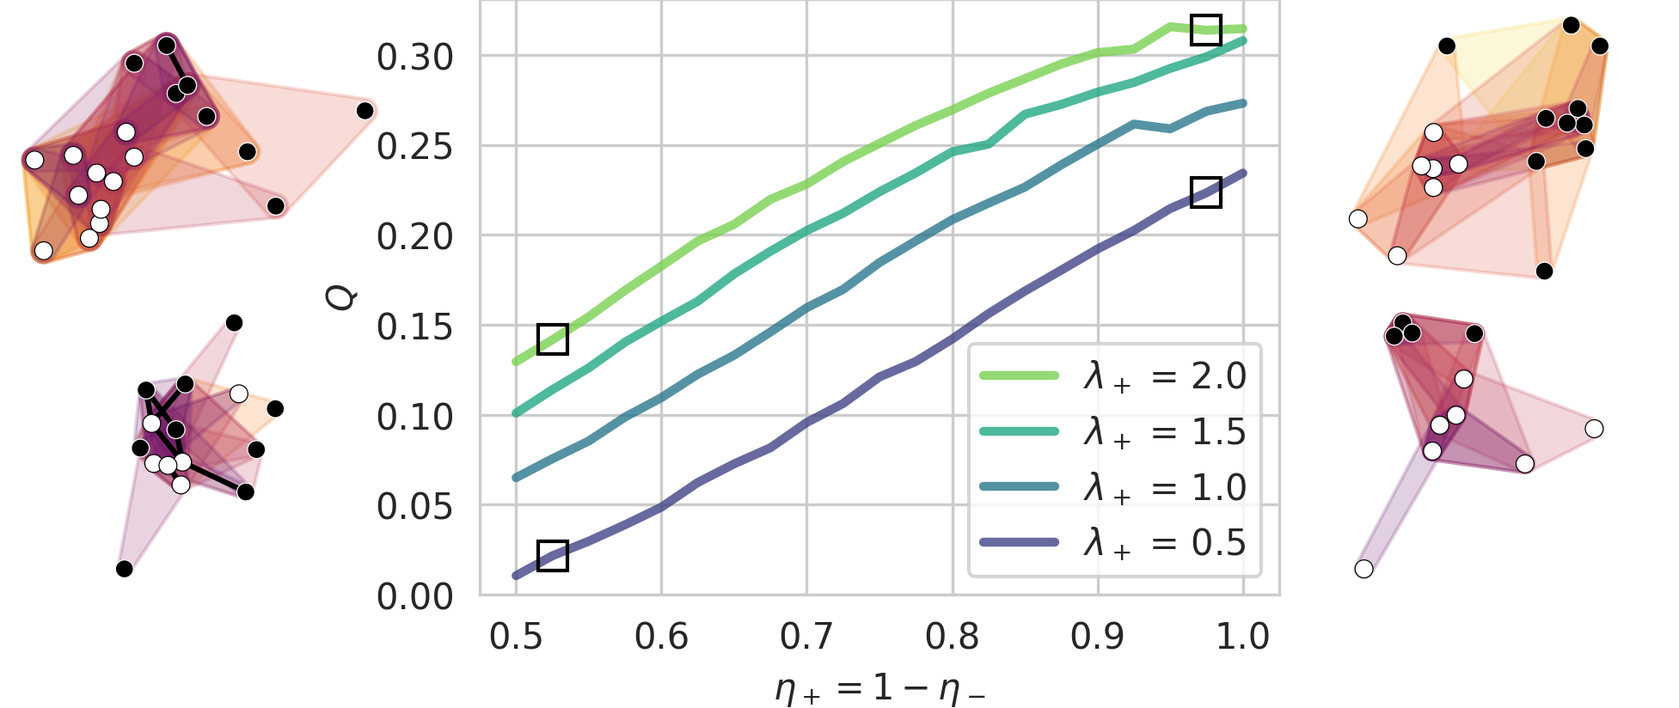
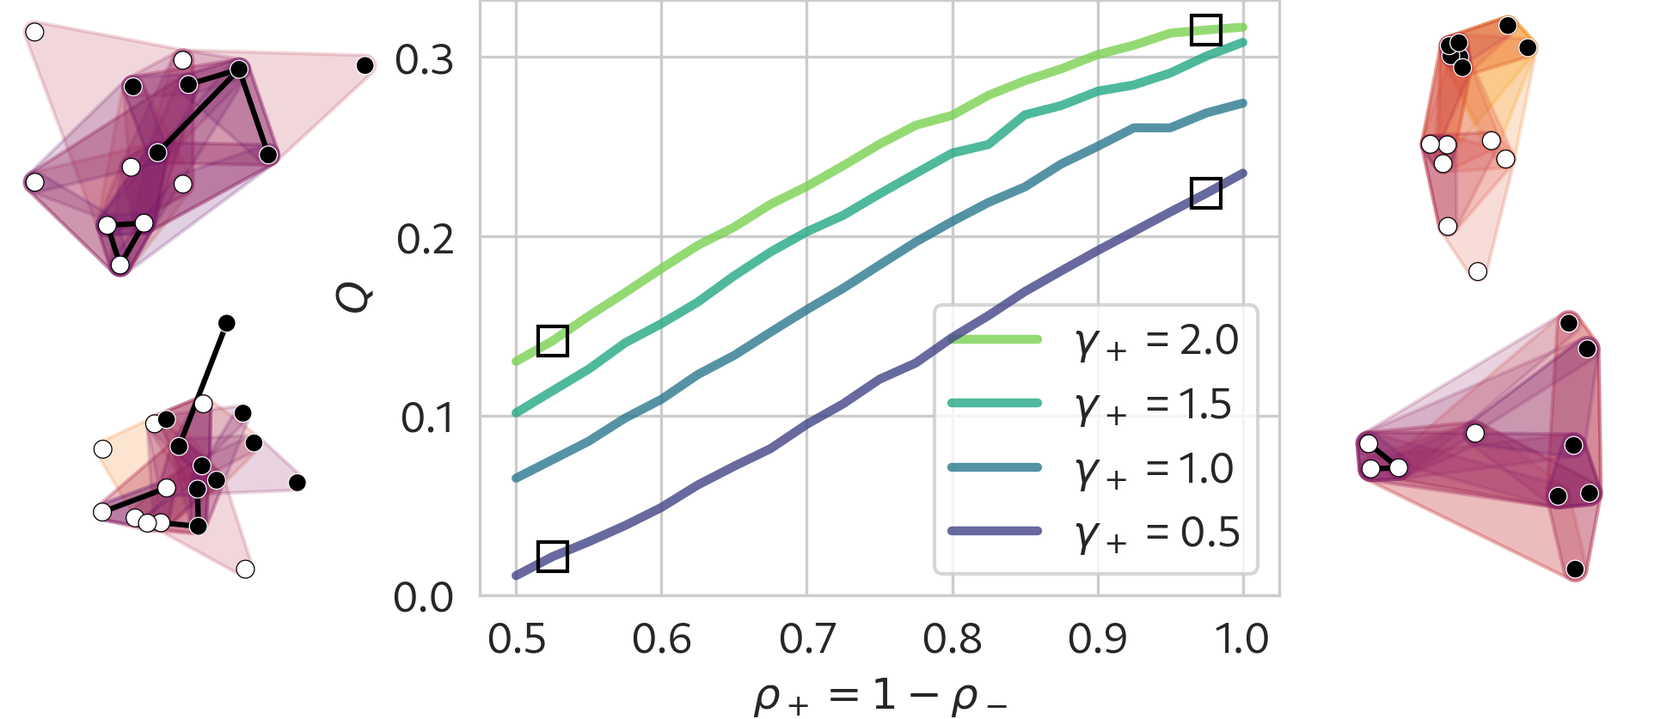
phil begins his pass

diff --git a/paper/main.tex b/paper/main.tex
@@ -1,7 +1,8 @@
 % /Users/philchodrow/.../main.tex
 % RevTeX 4.2 minimal starter document
 
-\documentclass[aps,pre,reprint,superscriptaddress,nofootinbib]{revtex4-2}
+\documentclass[aps,pre,reprint,superscriptaddress,nofootinbib,12pt,onecolumn]{revtex4-2}
+\usepackage[margin=1.25in]{geometry}
 % \documentclass[aps,pre,reprint,superscriptaddress,nofootinbib,draft]{revtex4-2}
 
 
@@ -40,13 +41,14 @@
 
 \date{\today}
 \begin{abstract}
-    There are many extant models of hypergraphs with interactions governed by some form of homophily or assortativity, but almost all of these assume independence between edges conditional on node parameters. 
-    Relaxing this strong assumption, we study a mechanistic model of growing hypergraphs in which edge formation is influenced by the realization of previous edges and is tuned by homophily between binary node labels. 
+    There are many extant models of hypergraphs with interactions governed by some form of homophily or assortativity, but most assume independence between edges conditional on node parameters. 
+    Relaxing this assumption, we study a mechanistic model of growing hypergraphs in which edge formation is influenced by the realization of previous edges and is tuned by homophily between binary node labels. 
     Edges form in this model as noisy copies of previous edges, where the transmission of nodes from one edge to the next depends on the labels.
     We derive a power law for the degree distribution in this model and describe the long-term dynamics of the joint distribution of labels contained in edges. 
     This model defines a likelihood over a labeled hypergraph, allowing us to use standard maximum-likelihood techniques to structure algorithms. 
-    We estimate the model parameters on synthetic and real data via (stochastic) expectation maximization, allowing us to statistically quantify the signature of homophily in empirical polyadic systems. 
-    We also demonstrate an approach to community detection via simulated annealing which, though computationally expensive, achieves competitive results on synthetic data generated from our model and certain empirical data sets known to be challenging to standard community detection techniques derived from models that assume edge independence.
+    We estimate the model parameters on synthetic and real data via (stochastic) expectation maximization. 
+    These estimates give statistically-principled descriptions of the operation of homophily in empirical polyadic systems. 
+    We also demonstrate an approach to community detection via simulated annealing which, though computationally expensive, achieves competitive results on both synthetic data and certain empirical data sets known to be challenging to community detection techniques based on the edge-independence assumption. 
     Our findings highlight the benefits of moving beyond edge-independence assumptions in modeling and data analysis, and point to several directions for future work. 
 \end{abstract}
 
@@ -56,96 +58,108 @@
 
 \def\thefootnote{*}\footnotetext{These authors contributed equally to this work}\def\thefootnote{\arabic{footnote}}
 
+
+\phil{clarify assortativity the structure vs. homophily the process throughout and say that's how we're using the terms.}
+
 \section{Introduction}
 
-    Hypergraphs provide a natural, flexible data representation for complex systems with polyadic (multi-way) interactions, such as social interactions (both in-person \cite{mastrandrea2015contact} and online \cite{bensonSimplicialClosureHigherorder2018}), academic co-authorship \cite{wu2022hypergraph}, and ecological systems \cite{levine2017beyond}. 
-    Much recent work has emphasized the importance of faithfully representing polyadic structure rather than reducing it to dyadic interactions \cite{battistonNetworksPairwiseInteractions2020,bick2023higher}, though recent work has shown that some purportedly higher-order dynamics can be faithfully represented on dyadic networks under appropriate models \cite{peixoto2026graphs}.
+    Hypergraphs provide a natural, flexible data representation for complex systems with polyadic (multi-way) interactions. 
+    Systems naturally modeled as hypergraphs include social interaction networks (both in-person \cite{mastrandrea2015contact} and online \cite{bensonSimplicialClosureHigherorder2018}), academic co-authorship neteworks, \cite{wu2022hypergraph}, and networks of ecological relations \cite{levine2017beyond}. 
+    Much recent work has emphasized the importance of faithfully representing polyadic structure rather than reducing it to dyadic interactions \cite{battistonNetworksPairwiseInteractions2020,bick2023higher} via graph projections.
 
 
-    % MORE HIGHER ORDER HERE
-    \frannie{Per existing comment, more higher order here}
-    Much attention in the theory of (hyper)graph mining has focused on developing novel techniques for community detection (also often called \emph{clustering} or \emph{partitioning}). 
-    Many, but not all, of these methods can be viewed as exact or approximate inference algorithms for stochastic generative models. 
-    A stochastic generative model is a parametrized probability distribution defined over hypergraphs. 
-    In one standard framework, a set $\nodes$ of $n$ nodes is initialized along with a vector $\vz \in [k]^n$ that assigns to each node one of $k$ community labels. 
-    One then forms the edge set $\edges$ iteratively by visiting each subset $R \subseteq \nodes$ and independently assigning $a_R$ (possibly repeated) edges to $R$ according to a distribution $p(a_R | \vz_R, \theta)$, where $\vz_R$ is the vector of labels of the nodes in $R$ and $\theta$ is a set of model parameters.
-    This results in a probability distribution over hypergraphs which can be factorized into a product of edge probabilities conditioned on the node labels and model parameters: 
+    Our focus on this work is on the mechanism of homophily---the tendency of nodes to interact with other nodes with similar attributes---in hypergraph data.
+    One way to model homophily in hypergraphs is via stochastic generative models, which define probability distributions over hypergraphs. 
+    In one standard framework, a set $\nodes$ of $n$ nodes is initialized along with a vector $\vz \in \{1,\ldots,k\}^n$ that assigns to each node one of $k$ community labels. 
+    One then forms the edge set $\edges$ iteratively by visiting each subset $R \subseteq \nodes$ and independently assigning $a_R \in \mathbb{N}$ (possibly repeated) edges to $R$ according to a distribution $p(a_R | \vz_R, \theta)$, where $\vz_R$ is the vector of labels of the nodes in $R$ and $\theta$ is a set of model parameters.
+    Independence of sampling results in a probability distribution over hypergraphs which can be factorized into a product of edge probabilities conditioned on the node labels and model parameters: 
     \begin{align}
         p(\hypergraph | \vz, \theta) = \prod_{R \subseteq \nodes} p(a_R | \vz_R, \theta) \;. \label{eq:edge-independence}
     \end{align}
-    Many generative models for community detection fall into this category, including hypergraph stochastic block models \cite{chodrowGenerativeHypergraphClustering2021,ruggeriCommunityDetectionLarge2023,kim2018stochastic} and some generalizations \cite{badalyanStructureInferenceHypergraphs2024,hood2026broad}.
-    The conditional independence property \cref{eq:edge-independence} is extremely useful for computation, as factorizability of the likelihood enables many efficiencies in various inference algorithms, including approximate maximum-likelihood estimation via direct optimization \cite{chodrowGenerativeHypergraphClustering2021} or expectation-maximization \cite{ruggeriCommunityDetectionLarge2023}; spectral methods \cite{chodrowNonbacktrackingSpectralClustering2023,fernandez2026achieving,li2026higher}; and message passing \cite{ruggeri2024message}. 
+    Many generative models fall into this broad scheme, including hypergraph stochastic block models \cite{chodrowGenerativeHypergraphClustering2021,ruggeriCommunityDetectionLarge2023,kim2018stochastic} and some of their generalizations \cite{badalyanStructureInferenceHypergraphs2024,hood2026broad}.
+
+    \phil{Need to standardize notation for likelihood: should it just be lowercase $p$ or something different and fancier?}
+
+
+    Models of this type often underly algorithms for hypergraph community detection (also called \emph{clustering} or \emph{partitioning}), in which one seeks to estimate the latent node labels $\vz$ given an observed hypergraph $\hypergraph$.
+    The conditional independence property \eqref{eq:edge-independence} is extremely useful for computation in this context.  
+    Factorizability of the likelihood enables many efficiencies in various inference algorithms, including approximate maximum-likelihood estimation via direct optimization \cite{chodrowGenerativeHypergraphClustering2021} or expectation-maximization \cite{ruggeriCommunityDetectionLarge2023}; spectral methods \cite{chodrowNonbacktrackingSpectralClustering2023,fernandez2026achieving,li2026higher}; and message passing \cite{ruggeri2024message}. 
     Another recent optimization-based approach \cite{kritschgauCommunityDetectionHypergraphs2024} is equivalent to a microcanonical version of the stochastic block model, which satisfies an asymptotic form of edge-independence in the large sparse limit.
-    Even a recent latent-space model \cite{yuModelingHypergraphsDiversity2025} treats edges as independent samples, albeit from a very differently stochastic generating process. 
+    Latent-space models (e.g. \cite{yuModelingHypergraphsDiversity2025}) also satisfy a form of edge independence, albeit in the context of a very different stochastic generating process.
     
     Edge independence, however, is a strong and often unrealistic assumption for modeling hypergraph data. 
-    A parallel line of work has found that polyadic data sets often contain significant edge correlations \cite{bensonSimplicialClosureHigherorder2018,landrySimplicialityHigherorderNetworks2024,leeHowHyperedgesOverlap2021}, typically in the form of \emph{similarity between interactions}.
+    A parallel line of work has found that polyadic data sets often contain significant edge correlations \cite{bensonSimplicialClosureHigherorder2018,landrySimplicialityHigherorderNetworks2024,leeHowHyperedgesOverlap2021}.
+    These correlations are often observed as \emph{similarity between interactions}.
     When an interaction occurs on a set $R \subseteq \nodes$, this increases the likelihood of observing a new interaction on a set $S \subseteq \nodes$ correlated with $R$ in the sense that $R\cap S$ is larger than would be expected by chance. 
     These overlaps can be shown to affect the kinds of dynamics which can unfold on the hypergraph \cite{maliziaHyperedgeOverlapDrives2025,lamata2025hyperedge}. 
-    Several generative models for the growth of hypergraphs with edge-dependence have been proposed \cite{bensonSequencesSets2018,avinRandomPreferentialAttachment2019,heEdgeCorrelationsLink2025,leeTHyMeTemporalHypergraph2021,leeTemporalHypergraphMotifs2023}. 
-    Several of these models express dependence through a copying or recombination mechanism, in which nodes collected from one or more existing hyperedges are gathered and noisily copied into a new edge as a block.  
+    Several generative models for the growth of hypergraphs with edge-dependence have been proposed \cite{bensonSequencesSets2018,avinRandomPreferentialAttachment2019,heEdgeCorrelationsLink2025,leeTHyMeTemporalHypergraph2021,leeTemporalHypergraphMotifs2023}, including several with explicit nodel labels \cite{giroirePreferentialAttachmentHypergraph2022,giroirePreferentialAttachmentHypergraph2022a,kaminski2023hypergraph}; see \cite{laber2026guide} for a recent review.  
+    We note that the above are all models \emph{of} hypergraph formation rather than models of dynamics \emph{on} hypergraphs; recent work argues that the latter may be better expressed via dyadic graph models \cite{peixoto2026graphs} but does not treat the former.
 
-    % Phil prewriting got down to here.
-
-    In this paper, we introduce a model of binary node-labeled hypergraphs in which edges form via a noisy copying interaction, which depends on the labels. 
+    Of the generative models of hypergraph growth with both edge-dependence and node labels, we are unaware of any which allow for statistically-motivated inference of either the dynamical parameters or the latent node labels.
+    In this paper, we aim to connect stochastic generative modeling of edge-dependent, node-labeled hypergraphs to inference algorithms. 
+    To this end, we introduce a model with binary labels in which edges form via a noisy edge copy process tuned by the node labels within the copied edge.
     We refer to this model as \Model{} (\model{}).
-    Our work is organized as follows. 
+    The paper proceeds as follows. 
     In \Cref{sec:model-description}, we describe \model{} and derive limiting descriptions of the joint distribution of node labels within a given edge, as well as the degree distribution of the hypergraph.
+    We turn to optimization-based inference methods in \Cref{sec:inference}, considering both parameter inference and community detection.
     Evaluating the likelihood of our model requires marginalizing over a set of latent variables governing the noisy copy mechanism, which is computationally expensive. 
-    To estimate our model's parameters when node labels are known, we therefore describe a stochastic expectation-maximization algorithm in which each iteration has sublinear cost in the number of edges for sparse hypergraphs.
-    We also describe a community detection algorithm for estimating node labels via simulated annealing on the \model{} likelihood. 
+    To estimate our model's parameters when node labels are known, we therefore describe a stochastic expectation-maximization algorithm with favorable scaling.
+    Community detection in this model is much more computationally challenging. 
+    As an early step in this direction,we describe a community detection algorithm for estimating node labels via simulated annealing on the \model{} likelihood. 
     In \Cref{sec:results}, we demonstrate our algorithms on synthetic and empirical data. 
     We show that, on synthetic data sampled from \model{}, our stochastic expectation maximization algorithm is both consistent and scalable, and that our simulated annealing algorithm for community detection, though computationally expensive, outperforms other standard methods in certain parameter regimes. 
     On empirical data, our parameter estimates yield insight into the mechanisms governing edge formation.
-    Our community detection achieves competitive recovery of observed metadata labels on some data sets known to be challenging to other community detection methods.
+    \model{} community detection achieves competitive recovery of observed metadata labels on some data sets known to be challenging to other recent community detection methods.
     We conclude with some discussion of future directions for models of node-labeled hypergraphs with edge-dependence. 
+    Our findings highlight the benefits of using explicit stochastic generative models to guide data analysis algorithms for studying homophily in polyadic systems.
 
-\section{\model{} Model Description} \label{sec:model-description}
+\section{The \model{} Model} \label{sec:model-description}
 
 
-    \Model{} (\model{}) is a generative model for growing hypergraphs with binary node labels. 
+    We propose \Model{} (\model{}), a generative model of growing hypergraphs with binary node labels. 
     \model{} is an extension of the Hyperedge Copy Model (HCM) of He et al. \cite{heEdgeCorrelationsLink2025}. 
-    In their HCM, edges form through a combination of three distinct steps: a copy step, in which a previous edge is sampled and imperfectly copied; an extant node addition step, in which new nodes are added to the new edge from the existing node set; and a new node addition step, in which new nodes are added to the new edge from outside the existing node set.
+    In the HCM, a new edge $\newedge$ is formed through a combination of three distinct steps: a copy step, in which a previous edge $\seededge$ is sampled and imperfectly copied into $\newedge$; an extant node addition step, in which new nodes in $\nodes \setminus \seededge$ are added to $\newedge$ from elsewhere in the node set; and a novel node addition step, in which nodes are added to both $e$ and $\nodes$ for the first time.
     \model{} replicates these mechanisms, but adds label-aware parameters to regulate each. 
 
-    Formally, a \model{} state at time $t$ is a hypergraph $\at{\hypergraph}{t} = \paren{\at{\nodes}{t}, \at{\edges}{t}}$, where $\nodes^t$ is the set of nodes and $\edges^t$ is the set of hyperedges, as well as a binary label vector $\vz^t \in \{0, 1\}^{|\at{\nodes}{t}|}$ which assigns to each node a label of either 0 or 1.
+    Formally, a \model{} state at time $t$ is a hypergraph $\at{\hypergraph}{t} = \paren{\at{\nodes}{t}, \at{\edges}{t}}$, where $\at{\nodes}{t}$ is the set of nodes and $\at{\edges}{t}$ is the set of hyperedges, as well as a binary label vector $\at{\vz}{t} \in \{0, 1\}^{|\at{\nodes}{t}|}$ which assigns to each node a label of either 0 or 1; $z_u$ denotes the label of node $u$.
     We let $\bar{z} = 1 - z$ denote the opposite label of $z$.
-    At timestep $t$, we add edge $\newedge$ to $\at{\edges}{t}$ to obtain $\at{\edges}{t+1}$, where $\newedge$ is formed according to the following three-step process:
+    At timestep $t+1$, we add edge $\newedge$ to $\at{\edges}{t}$ to obtain $\at{\edges}{t+1}$, where $\newedge$ is formed according to the following three-step process:
     \begin{itemize}
         \item 
             \textbf{Edge-Copying}: An edge $\seededge$ is sampled uniformly at random from $\at{\edges}{t}$, and a node $\focalnode$ is sampled uniformly at random from $\seededge$. 
             Then, each node $\node$ in $\seededge$ is included in $\newedge$ with probability $\same{\copyrate{}}$ if $z_{\node} = z_{\focalnode}$ and with probability $\opp{\copyrate{}}$ if $z_{\node} \neq z_{\focalnode}$.
         \item 
-            \textbf{Extant Node Addition}: We sample $\extantnodesinedge_{z_\focalnode}$ nodes from $\nodes^t \setminus \seededge$ with label $z_\focalnode$ and add them to $\newedge$, where $\extantnodesinedge_{z_\focalnode}$ is a Poisson random variable with mean $\same{\extantrate{}}$. 
-            We similarly sample $\extantnodesinedge_{\bar{z}_\focalnode}$ nodes from $\nodes^t \setminus \seededge$ with label $\bar{z}_\focalnode$ and add them to $\newedge$, where $\extantnodesinedge_{\bar{z}_\focalnode}$ is a Poisson random variable with mean $\opp{\extantrate{}}$.
-        \item \textbf{Novel Node Addition}: We sample $\novelnodesinedge_{z_\focalnode}$ new nodes with label $z_\focalnode$ and add them to $\newedge$, where $\novelnodesinedge_{z_\focalnode}$ is a Poisson random variable with mean $\same{\novelrate{}}$.
-            We similarly sample $\novelnodesinedge_{\bar{z}_\focalnode}$ new nodes with label $\bar{z}_\focalnode$ and add them to $\newedge$, where $\novelnodesinedge_{\bar{z}_\focalnode}$ is a Poisson random variable with mean $\opp{\novelrate{}}$.   
+            \textbf{Extant Node Addition}: We sample $\extantnodesinedge_{z_\focalnode} \sim \poisson{\same{\extantrate{}}}$ nodes from $\nodes^t \setminus \seededge$ with label $z_\focalnode$ and add them to $\newedge$. 
+            We similarly sample $\extantnodesinedge_{\bar{z}_\focalnode} \sim \poisson{\opp{\extantrate{}}}$ nodes from $\nodes^t \setminus \seededge$ with label $\bar{z}_\focalnode$ and add them to $\newedge$.
+        \item \textbf{Novel Node Addition}: We sample $\novelnodesinedge_{z_\focalnode} \sim \poisson{\same{\novelrate{}}}$ and add $\novelnodesinedge$ nodes with label $z_\focalnode$ to both $\newedge$ and $\nodes^{t+1}$. 
+        We similarly sample $\novelnodesinedge_{\bar{z}_\focalnode} \sim \poisson{\opp{\novelrate{}}}$ and add $\novelnodesinedge_{\bar{z}_\focalnode}$ nodes with label $\bar{z}_\focalnode$ to both $\newedge$ and $\nodes^{t+1}$. 
+        The associated labels are also added to $\at{\vz}{t}$ to form $\at{\vz}{t+1}$.
     \end{itemize}
-    \frannie{Do we want to add the addition of the new node's label to the label vector here when we add a novel node?}
-    Both our simulations and our statistical inference techniques (described below) were carried using the XGI package for polyadic data analysis in Python \cite{landryXGIPythonPackage2023}. 
+    We let $\paramvector = (\same{\copyrate{}}, \opp{\copyrate{}}, \same{\extantrate{}}, \opp{\extantrate{}}, \same{\novelrate{}}, \opp{\novelrate{}})$ denote the complete vector of model parameters. 
+    Formally, the probability of realizing a given hypergraph $\hypergraph$ with label vector $\vz$ under \model{} at time $t$ can be described as a time-dependent probability distribution $\at{p}{t}(\hypergraph, \vz ; \paramvector)$ over the space of hypergraphs with labeled nodes; we omit the time index when otherwise clear from context. 
+    Our implementation of \model{}, our simulations, and our other experiments were carried using the XGI package for polyadic data analysis in Python \cite{landryXGIPythonPackage2023}. 
 
 
 \begin{figure}
-    \includegraphics[width=0.48\textwidth]{../fig/community-structure-sims-combined.png}
+    \includegraphics[width=0.49\textwidth]{../fig/community-structure-sims-combined.png}
         \caption{
             Suite of model simulations illustrating the dependence of community structure, as measured by clique-projection modularity $Q$, on the \model{} parameters. 
             The parameters $\opp{\extantrate} = 0.5$ $\same{\novelrate{}} = 0.2$, and $\opp{\novelrate{}} = 0.1$ are held fixed. 
             Each line corresponds to a different value of $\same{\extantrate{}}$ indicated by the legend.
             Along the horizontal axis, we vary $\same{\copyrate{}}$ and set $\opp{\copyrate{}} = 1 - \same{\copyrate{}}$. 
             Each parameter combination is simulated $100$ times for $1,000$ timesteps. 
-            On either side of the plot, we show small hypergraphs sampled from parameter combinations indicated by the square markers. 
+            On either side of the plot, we show small hypergraphs sampled from parameter combinations indicated by the square markers for illustration.
         }\label{fig:community-structure-illustration}
     \end{figure}
-\frannie{Labels within the figure use old notation.  $Eta_+$, $Eta_-$ and $\lambda_+$ need to be changed to current notation}
 
 
 
     \Cref{fig:community-structure-illustration} illustrates the role of the model parameters in tuning the community structure of realized hypergraphs. 
-    We measure community structure by computing Newman-Girvan modularity \cite{newman2004finding} on the clique-projection of the hypergraph. 
+    We measure community structure by computing Newman-Girvan modularity \cite{newman2004finding} on the weighted clique-projection of the hypergraph. 
+    We also show several sample hypergraphs at different parameter combinations for visual illustration. 
     For fixed $\opp{\extantrate}$, $\same{\novelrate{}}$, and $\opp{\novelrate{}}$, increasing the difference $\same{\copyrate{}} - \opp{\copyrate{}}$ leads to higher modularity, as does increasing $\same{\extantrate{}}$.
     Hypergraphs sampled from our model using high values of $\same{\copyrate{}}$ and $\same{\extantrate{}}$ tend to have label-homogeneous cores of densely overlapping hyperedges, which are weakly connected to one another by edges with more heterogeneous label compositions.
     Hypergraphs with lower values of $\same{\copyrate{}}$ and $\same{\extantrate{}}$ tend to have less-structured distributions of labels over hyperedges. 
-    \frannie{Do $\opp{\copyrate{}}$ and $\opp{\extantrate{}}$ matter here?  Is the difference what's important?}
 
 
 
@@ -157,8 +171,8 @@
         \centering
         \includegraphics[width=1\textwidth]{../fig/linear_map_eigenvectors.png}
         \caption{
-            Visualization of the long-run dynamics of our model, for parameters. 
-            (a): Spectral gap $1 - \lambda_2$ of the linear map $T$ as a function of $\same{\copyrate{}}$ and $\opp{\copyrate{}}$ for fixed parameter values $\same{\extantrate{}} = 0.5$, $\opp{\extantrate{}} = \opp{\novelrate{}}3$, $\same{\novelrate{}} = 0.4$ and $\opp{\novelrate{}} = 0.2$. 
+            Illustrative long-run dynamics of our model.
+            (a): Spectral gap $1 - \lambda_2$ of the linear map $T$ as a function of $\same{\copyrate{}}$ and $\opp{\copyrate{}}$ for fixed parameter values $\same{\extantrate{}} = 0.5$, $\opp{\extantrate{}} = 0.2$, $\same{\novelrate{}} = 0.4$ and $\opp{\novelrate{}} = 0.2$. 
             The highlighted values $\same{\copyrate{}} = 0.8$ and $\opp{\copyrate{}} = 0.1$ are used in the remainder of the visualization. 
             (b): Leading eigenvector $\mathbf{v}_1$ of $T$, describing the stationary joint distribution $\at{\jointdist}{\infty} \paren{k_0, k_1}$ of label counts in edges.
             (c): Second eigenvector $\mathbf{v}_2$ of $T$. 
@@ -170,25 +184,23 @@
         }
         \label{fig:dynamics-eigenvectors}
     \end{figure*}
-    \frannie{Awkward sentence (visualization of the long-run dynamics of our model, for parameters) in caption.  Not sure what it is trying to say}
-    \frannie{Typo in caption of panel (a)?  $\opp{\extantrate{}} = \opp{\novelrate{}}3$?  }
 
-    Many asymptotic properties of our \model{} model can be described in terms of the joint distribution $p_{K_0, K_1}(k_0, k_1)$ of nodes of labels 0 and 1 in a uniformly random edge. 
-    This joint distribution can be obtained as the leading eigenvector of a linear map, as we now describe. 
-    Let $\at{\jointdist}{t}(k_0, k_1)$ be the joint distribution of label counts in a uniformly random edge after $t$ timesteps. 
-    Then, the probability $q(k_0', k_1')$ of realizing an edge with $k_0'$ nodes of label 0 and $k_1'$ nodes of label 1 at time $t+1$ is given by 
+    Many asymptotic properties of our \model{} model can be described in terms of the joint distribution $\jointdist(k_0, k_1)$ of node labels in an edge; here $\jointdist(k_0, k_1)$ gives the probability that an edge selected uniformly at random from $\edges$ contains exactly $k_0$ nodes of label 0 and $k_1$ nodes of label 1.
+    Under the $t\rightarrow \infty$ limit this joint distribution can be obtained as the leading eigenvector of a linear map. 
+    Let $\at{\jointdist}{t}(k_0, k_1)$ be the joint distribution of label counts in a uniformly random edge after $t$ timesteps, and let $\jointdist(k_0, k_1) = \at{\jointdist}{\infty} \paren{k_0, k_1}$ be the stationary distribution.
+    Then, the probability $r(k_0', k_1')$ of realizing an edge with $k_0'$ nodes of label 0 and $k_1'$ nodes of label 1 in timestep $t+1$ is given by 
     \begin{align*}
-        q(k_0', k_1') = \sum_{k_0, k_1} T(k_0', k_1' | k_0, k_1)\at{\jointdist}{t}(k_0, k_1)  \;,
+        r(k_0', k_1') = \sum_{k_0, k_1} T(k_0', k_1' | k_0, k_1)\at{\jointdist}{t}(k_0, k_1)  \;,
     \end{align*}
     where $T(k_0', k_1' | k_0, k_1)$ gives the probability that the edge $e$ realized in step $t+1$ has $k_0'$ nodes of label 0 and $k_1'$ nodes of label 1 given that the edge $f$ sampled to form $e$ has $k_0$ nodes of label 0 and $k_1$ nodes of label 1.
-    At stationarity, we must have $q(k_0', k_1') = \at{\jointdist}{t}(k_0', k_1') = \at{\jointdist}{t+1} \paren{k_0', k_1'}$, so the stationarity condition can be obtained by solving the linear system 
+    At stationarity, we must have $r(k_0', k_1') = \at{\jointdist}{t}(k_0', k_1') = \jointdist \paren{k_0', k_1'}$, so the stationarity condition can be obtained by solving the linear system 
     \begin{align*}
-        \at{\jointdist}{t+1} \paren{k_0', k_1'} = \sum_{k_0, k_1} T(k_0', k_1' | k_0, k_1)\at{\jointdist}{t} \paren{k_0, k_1}  \;.
+        \jointdist \paren{k_0', k_1'} = \sum_{k_0, k_1} T(k_0', k_1' | k_0, k_1)\jointdist \paren{k_0, k_1}  \;.
     \end{align*}
-    The stationary joint distribution $\at{\jointdist}{\infty} \paren{k_0, k_1}$ is therefore given by the leading eigenvector of the doubly-indexed matrix $T$ with entries $T(k_0', k_1' | k_0, k_1)$.
-    The entries of this matrix can be computed analytically. 
-    Conditional on choosing an edge $f$ with $k_0$ nodes of label 0 and $k_1$ nodes of label 1, a node of label $z$ is selected as the seed node $u$ with probability $\frac{k_z}{k_0 + k_1}$.
-    Then, the number of nodes of labels $z$ and $\bar{z}$ in $e$ have distributions
+    The stationary joint distribution $\jointdist \paren{k_0, k_1}$ is therefore given by the leading eigenvector of the doubly-indexed matrix $T$ with entries $T(k_0', k_1' | k_0, k_1)$. 
+    The entries of this matrix follow from the parametric probability descriptions used to define the \model{} model.
+    Conditional on choosing an edge $\seededge$ with $k_0$ nodes of label 0 and $k_1$ nodes of label 1, a node of label $z$ is selected as the focal node $\focalnode$ with probability $\frac{k_z}{k_0 + k_1}$.
+    Then, the number of nodes of labels $z$ and $\bar{z}$ in $\newedge$ have distributions
     \begin{align*}
         k_z' &\sim 1 + \text{Binom}\paren{k_z - 1, \same{\copyrate{}}} + \text{Poisson}(\same{\extantrate{}} + \same{\novelrate{}}) \;, \\
         k_{\bar{z}}' &\sim \text{Binom}\paren{k_{\bar{z}}, \opp{\copyrate{}}} + \text{Poisson}(\opp{\extantrate{}} + \opp{\novelrate{}}) \;.
@@ -207,38 +219,38 @@
         T(k_0', k_1' | k_0, k_1) = t(k_0' | k_0, k_1) t(k_1' | k_0, k_1) \;.
     \end{align*}
     In \Cref{fig:dynamics-eigenvectors}, we study the dynamics of our \model{} model as described by the matrix $T$. 
+    The spectral gap $1 - \lambda_2$ of $T$ is a measure of the rate of convergence to the stationary distribution $\jointdist \paren{k_0, k_1}$, where $\lambda_2$ is the second-largest eigenvalue of $T$.
     For fixed values of the parameters $\same{\extantrate{}}$, $\opp{\extantrate{}}$, $\same{\novelrate{}}$ and $\opp{\novelrate{}}$, the spectral gap $1 - \lambda_2$ of $T$ is highest when $\opp{\copyrate}$ is large and $\same{\copyrate}$ is small. 
-    High values of the spectral gap correspond to fast convergence to the stationary distribution $\at{\jointdist}{\infty} \paren{k_0, k_1}$ given by the Perron eigenvector $\mathbf{v}_1$ of $T$ with eigenvalue $1$ (panel (b)). 
+    High values of the spectral gap correspond to fast convergence to the stationary distribution $\jointdist \paren{k_0, k_1}$ given by the Perron eigenvector $\mathbf{v}_1$ of $T$ with eigenvalue $1$ (panel (b)). 
     We instead illustrate an alternative regime of relatively slow convergence in which $\same{\copyrate}$ is large and $\opp{\copyrate}$ is small.
     In this regime, the simulation may maintain transient dynamics in the direction of the second eigenvector $\mathbf{v}_2$ of $T$ with eigenvalue $\lambda_2 < 1$ (panel (c)) for relatively long periods of time before converging to the stationary distribution. 
     We illustrate this behavior in panel (d), where the system converges relatively slowly to the leading eigenvector $\mathbf{v}_1$ and away from the transient component $\mathbf{v}_2$. 
-    The resulting final simulation state matches the stationary distribution $\at{\jointdist}{\infty} \paren{k_0, k_1}$ relatively closely (panel (e)).
+    The resulting final simulation state matches the stationary distribution $\jointdist \paren{k_0, k_1}$ relatively closely (panel (e)).
 
-    \Cref{fig:dynamics-eigenvectors} shows that, when $\same{\copyrate{}}$ is sufficiently large, the stationary distribution $\at{\jointdist}{\infty} \paren{k_0, k_1}$ is concentrated on edges in which typical edges have large majorities of nodes with the same label (panel b), thus displaying a form of higher-order homophily \cite{laber2026guide}. 
+    \Cref{fig:dynamics-eigenvectors} shows that, when $\same{\copyrate{}}$ is sufficiently large, the stationary distribution $\jointdist \paren{k_0, k_1}$ is concentrated on edges in which typical edges have large majorities of nodes with the same label (panel b), the signature of higher-order structural assortativity.
+    This distribution is symmetric with respect to the two node labels, however, indicating that although local edges may have dominant majority labels, the long-run dynamics converge to equal global label populations.  
     The second eigenvector $v_2$ (panel c), however,  is antisymmetric, describing a transient in which a single label group tends to dominate most edges. 
-    When $\same{\copyrate{}}$ is sufficiently large, the spectral gap $1 - \lambda_2$ is small (panel a), indicating that this transient decays slowly and that the system may be dominated by edges with a single majority label for relatively long periods of time before equilibrating to the leading eigenvector (panels d and e).
+    When $\same{\copyrate{}}$ is sufficiently large, the spectral gap $1 - \lambda_2$ is small (panel a), indicating that this transient decays slowly and that the system may be dominated by edges with a single majority label for relatively long periods of time before equilibrating to the leading eigenvector (panels (d-e)).
     This behavior suggests that, although the \model{} model ultimately converges to a stationary state with symmetry between the two node labels, it can also serve through its transients as a reasonable generative model of systems with label asymmetry. 
 
     
 
 \subsubsection{Degree Distribution} \label{sec:degree-distribution}
 
-
-    The degree distribution of a hypergraph generated from the \model{} model follows an asymptotic power law with an exponent which can be computed in closed form from the model parameters and the stationary joint distribution $\at{\jointdist}{\infty} \paren{k_0, k_1}$. 
+    One model feature we can obtain from the stationary joint distribution $\jointdist \paren{k_0, k_1}$ is the asymptotic degree distribution generated from \model{}.
+    This asymptotic distribution a asymptotic power law with an exponent which can be computed in closed form from the model parameters and the stationary joint distribution $\jointdist \paren{k_0, k_1}$. 
     Our derivation is similar to that of He et al. \cite{heEdgeCorrelationsLink2025}, which in turn is based on a derivation by Mitzenmacher \cite{mitzenmacherBriefHistoryGenerative2004}. 
     The argument requires a mean-field assumption: 
     when a node $\focalnode$ is selected from edge $\seededge$ in the edge-sampling step, the degree $d$ of $\focalnode$ is independent of the ratio $\frac{k_0}{k}$ of label-0 nodes in the edge $\seededge$ sampled to form the new edge $\newedge$.
-    
     Under this assumption, it is possible to show that the degree distribution follows a power law with exponent
     \begin{align}
-        \zeta &= 1 + \frac{\brackets{k}}{1 + \same{\copyrate{}}(\rho_{00} + \rho_{11} - 1) + 2\opp{\copyrate{}} \rho_{01}} \label{eq:power-law-exponent}\\ 
-        \rho_{ij} &= \brackets{\frac{k_i k_j}{k}} \;. \nonumber
+        \zeta &= 1 + \frac{\brackets{k_0} + \brackets{k_1}}{1 + \same{\copyrate{}}(\nu_{00} + \nu_{11} - 1) + 2\opp{\copyrate{}} \nu_{01}} \label{eq:power-law-exponent}\\ 
+        \nu_{ij} &= \brackets{\frac{k_i k_j}{k}} \;. \nonumber
     \end{align}
-    In the expression for $\rho_{ij}$ (and for $\brackets{k}$) the expectation is taken with respect to the stationary joint distribution $\at{\jointdist}{\infty} \paren{k_0, k_1}$.
-    Here, $\novelrate{}$ can be interpreted as the expected number of novel nodes added per new edge, while $\expectedcopiednodes{}$ can be interpreted as the expected number of nodes copied into a new edge from the sampled edge, normalized by the average degree of a node in the hypergraph.
-    A derivation of this result and a computational illustration are provided in \Cref{sec:degree-distribution-appendix} and \Cref{fig:degrees}. 
+    In the expression for $\nu_{ij}$ (and for $\brackets{k_i}$) the expectation is taken with respect to the stationary joint distribution $\jointdist \paren{k_0, k_1}$.
+    A derivation of this result and a computational illustration are provided in Appendix \Cref{sec:degree-distribution-appendix} and \Cref{fig:degrees}. 
     
-\section{Model Inference}
+\section{Model Inference} \label{sec:inference}
 
     In this section, we consider the problems of \emph{parameter inference} (learning $\paramvector$ given $\hypergraph$ and $\vz$) and \emph{community detection} (learning $\vz$ given $\hypergraph$ and $\paramvector$). 
 

diff --git a/scripts/community-structure-viz.py b/scripts/community-structure-viz.py
@@ -11,7 +11,7 @@ import networkx as nx
 from src.algorithms.sem import sem_functions
 import pandas as pd
 sem = sem_functions()
-import figure_settings as fs
+import scripts.figure_settings as fs
 
 
 
@@ -78,7 +78,7 @@ palette = sns.color_palette("viridis", n_colors=sub["theta_3"].nunique())
 
 sns.lineplot(data=sub, x="theta_1", y=col_to_plot, hue="theta_3", palette=palette, ax=ax, alpha = 0.8, legend = True, linewidth = 2.5, zorder = 100)
 ax.set_ylim(0, None)
-ax.set_xlabel(r"$\eta_+ = 1 - \eta_-$")
+ax.set_xlabel(rf"$\{fs.theta['copy']}_+ = 1 - \{fs.theta['copy']}_-$")
 ax.set_ylabel(r"$Q$")
 # change the legend title 
 # reverse the order of the legend items 
@@ -86,7 +86,7 @@ ax.set_ylabel(r"$Q$")
 handles, labels = ax.get_legend_handles_labels()
 handles, labels = reversed(handles), reversed(labels)
 
-new_labels = [f"$\\lambda_+$ = {label}" for label in labels]
+new_labels = [f"$\{fs.theta['extant']}_+$ = {label}" for label in labels]
 ax.legend(handles, 
           new_labels, 
           title = None)
